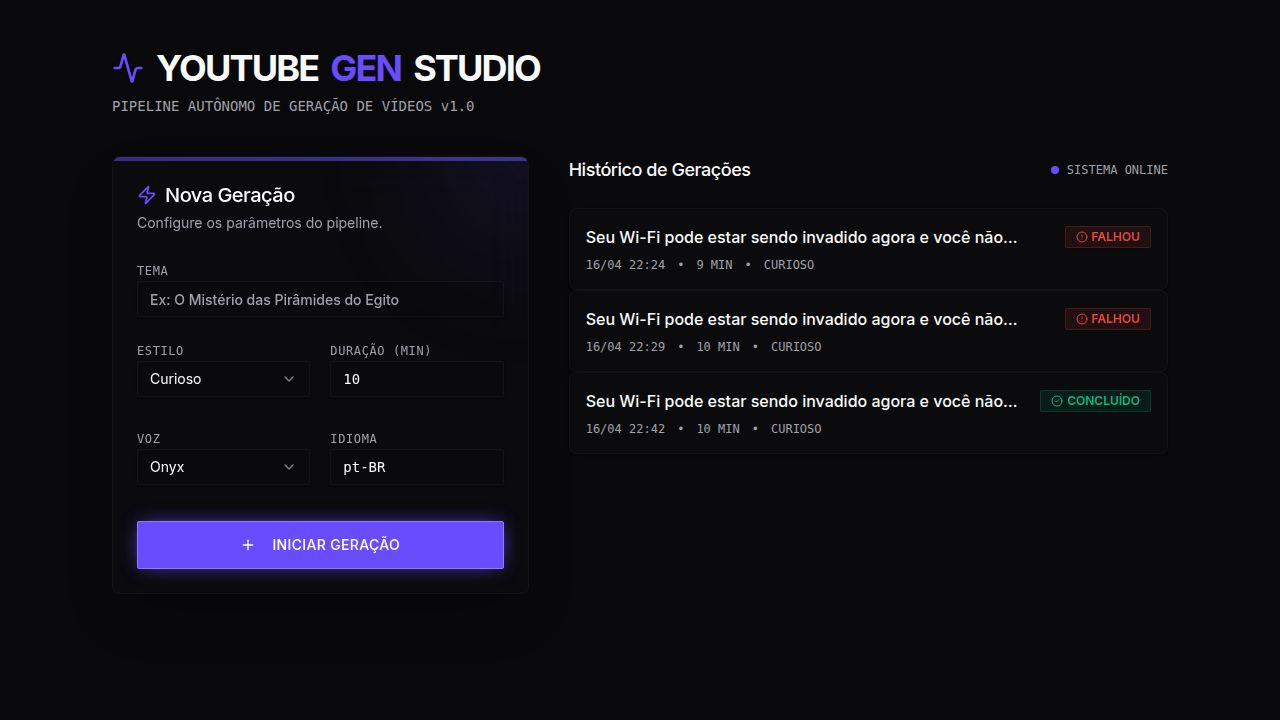
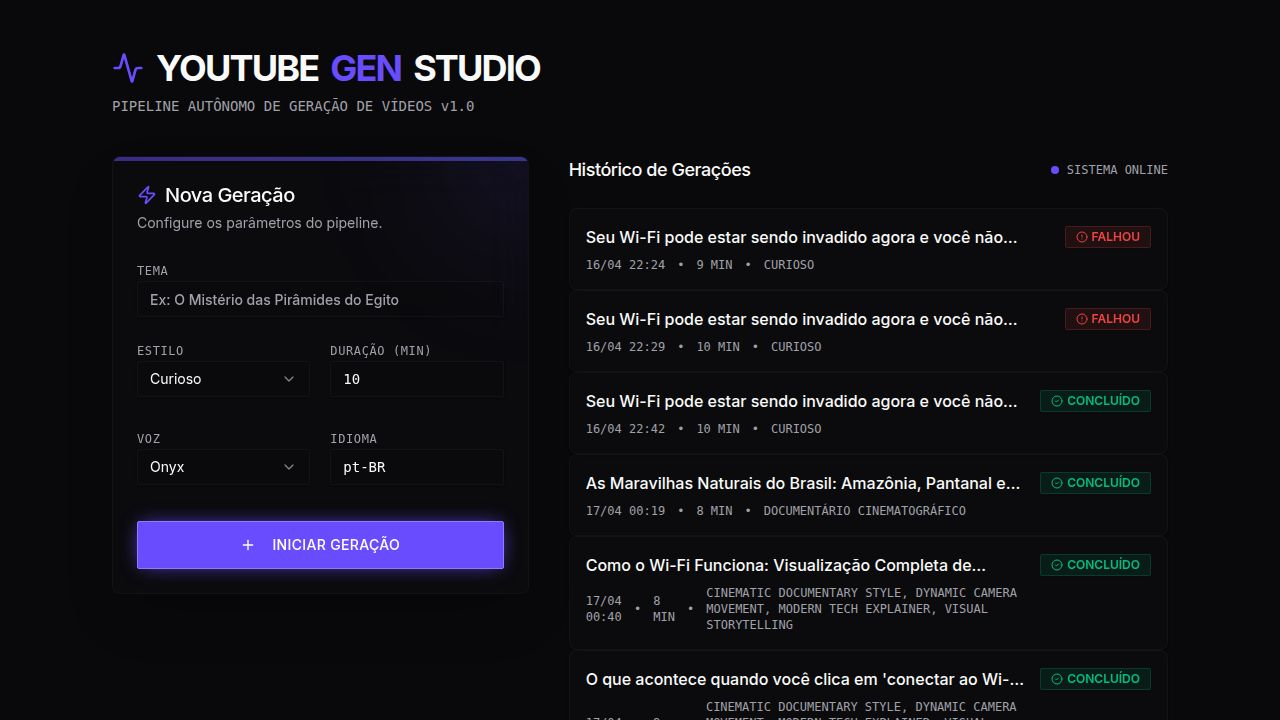
Integrate Pollinations.ai for image and video generation to improve quality and reduce costs
Replaces OpenAI's image generation with Pollinations' flux-realism and Runway's video generation with Pollinations' video clips, while also optimizing audio generation.

Replit-Commit-Author: Agent
Replit-Commit-Session-Id: e061efa4-46f0-492a-ac6f-ad19ea613f7a
Replit-Commit-Checkpoint-Type: full_checkpoint
Replit-Commit-Event-Id: f698f87c-a55b-4506-ab41-9d2cc5e5361f
Replit-Commit-Screenshot-Url: https://storage.googleapis.com/screenshot-production-us-central1/f9928c97-b92e-4fc0-9fad-0aa0a79a4e04/e061efa4-46f0-492a-ac6f-ad19ea613f7a/LB5eJOX
Replit-Helium-Checkpoint-Created: true

diff --git a/artifacts/api-server/src/routes/videos/index.ts b/artifacts/api-server/src/routes/videos/index.ts
@@ -8,16 +8,18 @@ import { videosTable } from "@workspace/db";
 import { generateScript } from "../../lib/video/scriptGenerator.js";
 import { generateAudio } from "../../lib/video/audioGenerator.js";
 import { generateImages } from "../../lib/video/imageGenerator.js";
-import { generateVideoClips } from "../../lib/video/runwayGenerator.js";
+import {
+  generatePollinationsImages,
+  generatePollinationsVideoClips,
+} from "../../lib/video/pollinationsGenerator.js";
 import {
   mergeAudios,
   assembleFromClips,
   assembleVideo,
 } from "../../lib/video/videoAssembler.js";
 
-
 const router = Router();
-const USE_RUNWAY = !!process.env.RUNWAY_API_KEY;
+const USE_POLLINATIONS = !!process.env.POLLINATIONS_API_KEY;
 
 function getVideoWorkDir(videoId: number): string {
   return path.join(os.tmpdir(), "yt-video-gen", String(videoId));
@@ -127,6 +129,7 @@ router.post("/videos/:id/generate", async (req, res) => {
   try {
     fs.mkdirSync(workDir, { recursive: true });
 
+    // ─── STEP 1: SCRIPT ────────────────────────────────────────────
     sendEvent("script", "Gerando roteiro com IA...", 5);
     await updateVideo(id, { status: "generating_script", progress: 5 });
 
@@ -137,85 +140,98 @@ router.post("/videos/:id/generate", async (req, res) => {
       video.language
     );
     sendEvent("script", `Roteiro gerado: ${blocks.length} blocos criados.`, 15);
+    await updateVideo(id, { progress: 15 });
 
-    sendEvent("audio", "Gerando áudios de narração...", 20);
-    await updateVideo(id, { status: "generating_audio", progress: 20 });
+    // ─── STEP 2: AUDIO ─────────────────────────────────────────────
+    sendEvent("audio", "Gerando áudios com emoção por bloco...", 18);
+    await updateVideo(id, { status: "generating_audio", progress: 18 });
 
     const audioPaths = await generateAudio(blocks, audioDir, video.voice);
     for (let i = 0; i < audioPaths.length; i++) {
-      const pct = 20 + Math.round((i + 1) * (15 / audioPaths.length));
+      const pct = 18 + Math.round((i + 1) * (17 / audioPaths.length));
       sendEvent("audio", `Áudio ${i + 1}/${audioPaths.length} gerado.`, pct);
       await updateVideo(id, { progress: pct });
     }
     sendEvent("audio", "Todos os áudios gerados.", 35);
+    await updateVideo(id, { progress: 35 });
 
-    sendEvent("images", "Gerando imagens cinematográficas com IA...", 37);
-    await updateVideo(id, { status: "generating_images", progress: 37 });
-
-    const imagePaths = await generateImages(blocks, imagesDir, video.style);
-    for (let i = 0; i < imagePaths.length; i++) {
-      const pct = 37 + Math.round((i + 1) * (18 / imagePaths.length));
-      sendEvent("images", `Imagem ${i + 1}/${imagePaths.length} gerada.`, pct);
-      await updateVideo(id, { progress: pct });
-    }
-    sendEvent("images", "Todas as imagens geradas.", 55);
-
+    // ─── STEP 3: IMAGES ────────────────────────────────────────────
     const fullAudioPath = await mergeAudios(audioPaths, outputDir);
     const outputVideoPath = path.join(outputDir, "video_final.mp4");
 
-    if (USE_RUNWAY) {
-      sendEvent("video", "🎬 Gerando clipes de vídeo com IA Runway (isso leva alguns minutos)...", 57);
+    if (USE_POLLINATIONS) {
+      sendEvent("images", "🎨 Gerando imagens cinematográficas com Pollinations.ai...", 37);
+      await updateVideo(id, { status: "generating_images", progress: 37 });
+
+      const imagePaths = await generatePollinationsImages(blocks, imagesDir, video.style);
+      for (let i = 0; i < imagePaths.length; i++) {
+        const pct = 37 + Math.round((i + 1) * (18 / imagePaths.length));
+        sendEvent("images", `Imagem ${i + 1}/${imagePaths.length} gerada com Pollinations.`, pct);
+        await updateVideo(id, { progress: pct });
+      }
+      sendEvent("images", "Todas as imagens geradas.", 55);
+      await updateVideo(id, { progress: 55 });
+
+      // ─── STEP 4: VIDEO CLIPS (Pollinations) ─────────────────────
+      sendEvent("video", "🎬 Gerando clipes de vídeo com IA (Seedance/Wan)...", 57);
       await updateVideo(id, { status: "generating_clips", progress: 57 });
 
-      const secondsPerClip = 5;
-      const clipPaths: string[] = [];
+      const rawClipPaths = await generatePollinationsVideoClips(blocks, audioPaths, clipsDir);
 
-      for (let i = 0; i < blocks.length; i++) {
-        const pct = 57 + Math.round((i + 1) * (30 / blocks.length));
-        sendEvent("video", `Clipe ${i + 1}/${blocks.length} sendo gerado pelo Runway...`, pct);
-        await updateVideo(id, { progress: pct });
+      const successClips: string[] = [];
+      const failedIndexes: number[] = [];
 
-        try {
-          const singleClip = await generateVideoClips(
-            [blocks[i]],
-            [imagePaths[i]],
-            clipsDir,
-            secondsPerClip
-          );
-          clipPaths.push(...singleClip);
-        } catch (clipErr) {
-          const msg = clipErr instanceof Error ? clipErr.message : String(clipErr);
-          sendEvent("video", `⚠ Clipe ${i + 1} falhou, usando imagem animada: ${msg.slice(0, 80)}`, pct);
-          clipPaths.push("__FALLBACK__:" + imagePaths[i]);
+      for (let i = 0; i < rawClipPaths.length; i++) {
+        const p = rawClipPaths[i];
+        const pct = 57 + Math.round((i + 1) * (28 / rawClipPaths.length));
+        if (p.startsWith("__FAILED__:")) {
+          failedIndexes.push(i);
+          sendEvent("video", `⚠ Clipe ${i + 1} falhou, usando imagem animada como fallback.`, pct);
+        } else {
+          successClips.push(p);
+          sendEvent("video", `✅ Clipe ${i + 1}/${blocks.length} gerado.`, pct);
         }
+        await updateVideo(id, { progress: pct });
       }
 
-      const validClips = clipPaths.filter((p) => !p.startsWith("__FALLBACK__"));
-      const fallbackImages = clipPaths
-        .filter((p) => p.startsWith("__FALLBACK__"))
-        .map((p) => p.replace("__FALLBACK__:", ""));
+      sendEvent("video", "Montando vídeo final...", 87);
+      await updateVideo(id, { status: "assembling_video", progress: 87 });
 
-      if (validClips.length === blocks.length) {
-        sendEvent("video", "Todos os clipes prontos! Montando vídeo final...", 88);
-        await updateVideo(id, { status: "assembling_video", progress: 88 });
-        await assembleFromClips(clipPaths, fullAudioPath, outputVideoPath);
-      } else if (validClips.length > 0) {
-        sendEvent("video", `${validClips.length} clipes prontos, montando vídeo híbrido...`, 88);
-        await updateVideo(id, { status: "assembling_video", progress: 88 });
-
-        const resolvedPaths = clipPaths.map((p) => p.replace("__FALLBACK__:", ""));
+      if (successClips.length === blocks.length) {
+        // All clips succeeded — concat them directly
+        await assembleFromClips(successClips, fullAudioPath, outputVideoPath);
+      } else if (successClips.length > 0) {
+        // Some failed — mix real clips with Ken Burns on failed blocks
+        const resolvedPaths: string[] = [];
+        for (let i = 0; i < rawClipPaths.length; i++) {
+          if (!rawClipPaths[i].startsWith("__FAILED__:")) {
+            resolvedPaths.push(rawClipPaths[i]);
+          } else {
+            resolvedPaths.push(imagePaths[i]);
+          }
+        }
         await assembleFromClips(resolvedPaths, fullAudioPath, outputVideoPath);
       } else {
-        sendEvent("video", "⚠ Runway indisponível, usando animação de imagens...", 88);
-        await updateVideo(id, { status: "assembling_video", progress: 88 });
+        // All clips failed — fall back to full zoompan
+        sendEvent("video", "⚠ Clipes indisponíveis, usando animação dinâmica de imagens...", 87);
         await assembleVideo(imagePaths, audioPaths, fullAudioPath, outputVideoPath);
       }
-    } else {
-      sendEvent("video", "Mesclando áudios e sincronizando imagens...", 60);
-      await updateVideo(id, { status: "assembling_video", progress: 60 });
 
-      sendEvent("video", "Montando vídeo com animações sincronizadas ao áudio...", 70);
-      await updateVideo(id, { progress: 70 });
+    } else {
+      // No Pollinations key — use OpenAI for images + zoompan animation
+      sendEvent("images", "Gerando imagens cinematográficas com IA...", 37);
+      await updateVideo(id, { status: "generating_images", progress: 37 });
+
+      const imagePaths = await generateImages(blocks, imagesDir, video.style);
+      for (let i = 0; i < imagePaths.length; i++) {
+        const pct = 37 + Math.round((i + 1) * (18 / imagePaths.length));
+        sendEvent("images", `Imagem ${i + 1}/${imagePaths.length} gerada.`, pct);
+        await updateVideo(id, { progress: pct });
+      }
+      sendEvent("images", "Todas as imagens geradas.", 55);
+
+      sendEvent("video", "Montando vídeo com animações sincronizadas ao áudio...", 60);
+      await updateVideo(id, { status: "assembling_video", progress: 60 });
 
       await assembleVideo(imagePaths, audioPaths, fullAudioPath, outputVideoPath);
     }

diff --git a/artifacts/api-server/src/lib/video/pollinationsGenerator.ts b/artifacts/api-server/src/lib/video/pollinationsGenerator.ts
@@ -1,0 +1,215 @@
+import https from "https";
+import http from "http";
+import fs from "fs";
+import path from "path";
+import type { ScriptBlock } from "./scriptGenerator.js";
+
+const POLLINATIONS_API_KEY = process.env.POLLINATIONS_API_KEY ?? "";
+const BASE_URL = "gen.pollinations.ai";
+
+const IMAGE_MODELS = [
+  "flux-realism",
+  "flux-cinematic",
+  "flux-pro",
+  "flux",
+  "turbo",
+  "sana",
+];
+
+const VIDEO_MODELS = [
+  "seedance",
+  "wan-fast",
+  "ltx-2",
+  "nova-reel",
+];
+
+function fetchToFile(
+  urlStr: string,
+  outputPath: string,
+  timeoutMs: number = 180_000
+): Promise<void> {
+  return new Promise((resolve, reject) => {
+    const url = new URL(urlStr);
+    const lib = url.protocol === "https:" ? https : http;
+
+    const options = {
+      hostname: url.hostname,
+      port: url.port || (url.protocol === "https:" ? 443 : 80),
+      path: url.pathname + url.search,
+      headers: {
+        Authorization: `Bearer ${POLLINATIONS_API_KEY}`,
+        Accept: "*/*",
+        "User-Agent": "youtube-video-gen/1.0",
+      },
+    };
+
+    const timer = setTimeout(() => {
+      reject(new Error(`Pollinations request timed out after ${timeoutMs / 1000}s`));
+    }, timeoutMs);
+
+    const req = lib.get(options, (res) => {
+      if (res.statusCode === 301 || res.statusCode === 302) {
+        clearTimeout(timer);
+        const redirectUrl = res.headers.location;
+        if (!redirectUrl) {
+          reject(new Error("Redirect with no location header"));
+          return;
+        }
+        fetchToFile(redirectUrl, outputPath, timeoutMs).then(resolve).catch(reject);
+        return;
+      }
+
+      if (res.statusCode !== 200) {
+        clearTimeout(timer);
+        let body = "";
+        res.on("data", (d: Buffer) => { body += d.toString(); });
+        res.on("end", () => {
+          reject(new Error(`Pollinations HTTP ${res.statusCode}: ${body.slice(0, 200)}`));
+        });
+        return;
+      }
+
+      const file = fs.createWriteStream(outputPath);
+      res.pipe(file);
+      file.on("finish", () => {
+        clearTimeout(timer);
+        file.close();
+        resolve();
+      });
+      file.on("error", (err) => {
+        clearTimeout(timer);
+        reject(err);
+      });
+    });
+
+    req.on("error", (err) => {
+      clearTimeout(timer);
+      reject(new Error(`Pollinations network error: ${err.message}`));
+    });
+  });
+}
+
+export async function generatePollinationsImages(
+  blocks: ScriptBlock[],
+  imagesDir: string,
+  style?: string
+): Promise<string[]> {
+  fs.mkdirSync(imagesDir, { recursive: true });
+
+  const STYLE_SUFFIXES = [
+    "ultra-sharp cinematic 4K, photorealistic, volumetric lighting, deep shadows",
+    "IMAX quality, dramatic color grading, film grain, anamorphic lens flare",
+    "8K photorealistic, professional color grading, bokeh depth of field, emotional weight",
+    "cinematic still, ultra-detailed textures, dramatic lighting 3:1 ratio, strong visual hierarchy",
+    "hyper-realistic render, dark moody atmosphere, single key light, atmospheric haze",
+    "award-winning photography, masterclass composition, ultra-sharp, rich contrast",
+    "photojournalism style, raw emotional power, decisive moment, ultra-sharp focus",
+    "concept art quality, environmental storytelling, dramatic scale, atmospheric perspective",
+    "technical visualization, neon wireframe accents on dark background, ultra-precise",
+    "cinematic wide-angle, leading lines, rule of thirds, perfect exposure, depth and dimension",
+  ];
+
+  const isTech = style
+    ? /tech|tecnolog|explainer|network|data|digital|modern|cinematic documentary/i.test(style)
+    : false;
+
+  const imagePaths: string[] = [];
+
+  for (let i = 0; i < blocks.length; i++) {
+    const block = blocks[i];
+    const styleSuffix = STYLE_SUFFIXES[i % STYLE_SUFFIXES.length];
+    const techBoost = isTech
+      ? "glowing neon accents, dark cinematic background, holographic elements, tech documentary,"
+      : "";
+    const cameraHint = block.cameraMovement ? `Camera: ${block.cameraMovement}.` : "";
+
+    const fullPrompt = [
+      block.imagePrompt,
+      techBoost,
+      cameraHint,
+      styleSuffix,
+      "NO text, NO watermark, NO logo",
+    ]
+      .filter(Boolean)
+      .join(" ");
+
+    const model = IMAGE_MODELS[i % IMAGE_MODELS.length];
+    const encoded = encodeURIComponent(fullPrompt);
+    const url = `https://${BASE_URL}/image/${encoded}?width=1536&height=1024&model=${model}&nologo=true`;
+
+    const outputPath = path.join(imagesDir, `img_${String(block.blockNumber).padStart(2, "0")}.jpg`);
+
+    let attempts = 0;
+    let lastError: Error | null = null;
+    while (attempts < 3) {
+      try {
+        await fetchToFile(url, outputPath, 90_000);
+        lastError = null;
+        break;
+      } catch (err) {
+        lastError = err instanceof Error ? err : new Error(String(err));
+        attempts++;
+        if (attempts < 3) {
+          await new Promise((r) => setTimeout(r, 3000 * attempts));
+        }
+      }
+    }
+    if (lastError) throw lastError;
+
+    imagePaths.push(outputPath);
+  }
+
+  return imagePaths;
+}
+
+export async function generatePollinationsVideoClips(
+  blocks: ScriptBlock[],
+  audioPaths: string[],
+  clipsDir: string
+): Promise<string[]> {
+  fs.mkdirSync(clipsDir, { recursive: true });
+
+  const clipPaths: string[] = [];
+
+  for (let i = 0; i < blocks.length; i++) {
+    const block = blocks[i];
+
+    const videoPrompt = [
+      block.imagePrompt,
+      block.cameraMovement ? `Camera movement: ${block.cameraMovement}.` : "",
+      "Cinematic, smooth motion, no text, no logo, professional grade",
+    ]
+      .filter(Boolean)
+      .join(" ");
+
+    const model = VIDEO_MODELS[i % VIDEO_MODELS.length];
+    const encoded = encodeURIComponent(videoPrompt);
+    const url = `https://${BASE_URL}/video/${encoded}?model=${model}&duration=5&aspectRatio=16:9`;
+
+    const outputPath = path.join(clipsDir, `clip_${String(block.blockNumber).padStart(2, "0")}.mp4`);
+
+    let attempts = 0;
+    let lastError: Error | null = null;
+    while (attempts < 2) {
+      try {
+        await fetchToFile(url, outputPath, 180_000);
+        const stat = fs.statSync(outputPath);
+        if (stat.size < 10_000) {
+          throw new Error(`Clip too small (${stat.size} bytes), likely an error response`);
+        }
+        lastError = null;
+        break;
+      } catch (err) {
+        lastError = err instanceof Error ? err : new Error(String(err));
+        attempts++;
+        if (attempts < 2) {
+          await new Promise((r) => setTimeout(r, 5000));
+        }
+      }
+    }
+
+    clipPaths.push(lastError ? `__FAILED__:${block.blockNumber}` : outputPath);
+  }
+
+  return clipPaths;
+}
